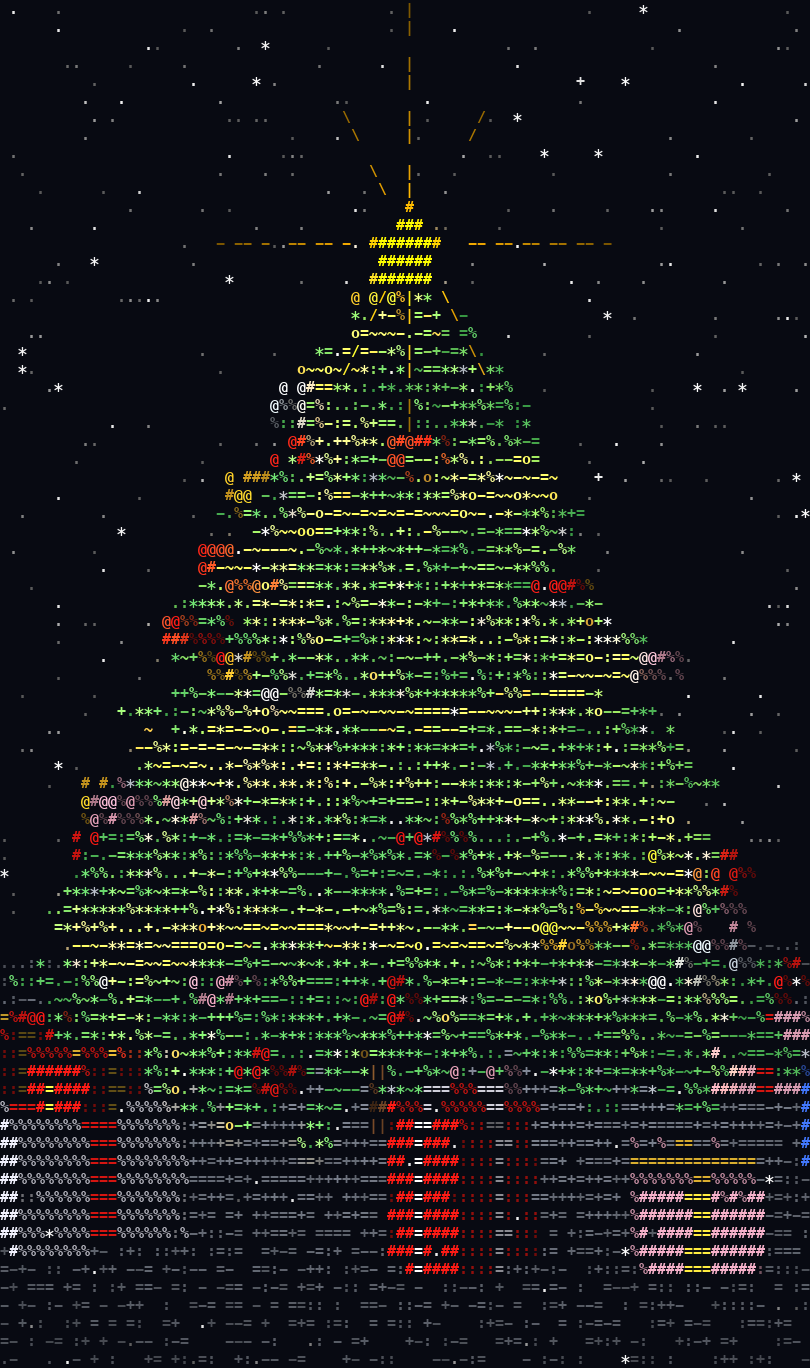
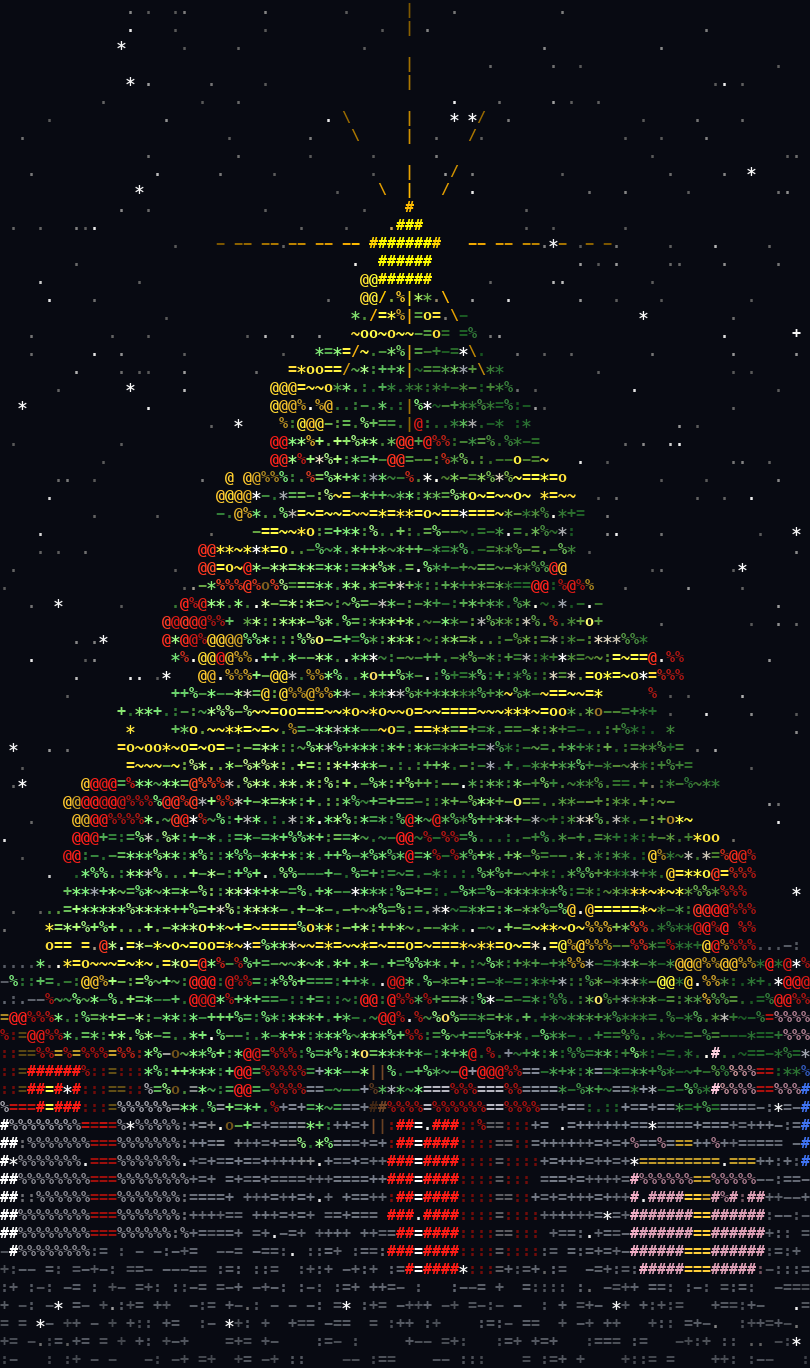
Stronger shading: darker needle base, side light, solid red/gold ornament blobs, bright garland in front of the needles, less bloom haze

diff --git a/tree.py b/tree.py
@@ -52,17 +52,17 @@ add(np.stack([0.085 * np.cos(a), hh, 0.085 * np.sin(a)], -1), np.stack([np.cos(a
 # ---------------------------------------------------------------- tinsel garland: drooping gold spiral in swags (glows)
 n = 2600; u = np.linspace(0, 1, n); turns = 3.6
 hg = 0.03 + 0.90 * u; ag = TAU * turns * u + 0.9
-swag = 0.06 * np.abs(np.sin(ag * 2.5)); rg = radius(hg) * 1.03
+swag = 0.06 * np.abs(np.sin(ag * 2.5)); rg = radius(hg) * 1.12
 p = np.stack([rg * np.cos(ag), YB + (YT - YB) * hg - swag, rg * np.sin(ag)], -1) + rng.normal(0, 0.008, (n, 3))
 g0 = sum(len(x) for x in P)
-add(p, 0, [0.95, 0.72, 0.28], 0.65 + 0.3 * rng.random(n), 3 + 3.5 * u, rng.choice(list("~=-o"), n, p=[.35, .3, .25, .1]))
+add(p, 0, [1.0, 0.82, 0.22], 1.0, 3 + 3.5 * u, rng.choice(list("~=o*"), n, p=[.30, .35, .15, .20]))
 g1 = sum(len(x) for x in P)
 
 # ---------------------------------------------------------------- ornaments: small shaded balls on branch tips
-PALETTE = [[1.0, 0.10, 0.08], [1.0, 0.10, 0.08], [1.0, 0.10, 0.08], [1.0, 0.75, 0.15], [1.0, 0.70, 0.80], [0.90, 0.95, 1.0]]
+PALETTE = [[1.0, 0.12, 0.10], [1.0, 0.12, 0.10], [1.0, 0.12, 0.10], [1.0, 0.78, 0.18], [1.0, 0.12, 0.10], [1.0, 0.78, 0.18]]
 for i, tp in enumerate(tips[:60]):
-    v = rng.normal(size=(20, 3)); v /= np.linalg.norm(v, axis=1, keepdims=True)
-    add(tp * [1.08, 1, 1.08] + [0, -0.05, 0] + v * [0.07, 0.04, 0.07], v, PALETTE[i % len(PALETTE)], 1.0, 6 + 0.08 * i, "@" * 20, ORNAMENT)
+    v = rng.normal(size=(40, 3)); v /= np.linalg.norm(v, axis=1, keepdims=True)
+    add(tp * [1.10, 1, 1.10] + [0, -0.05, 0] + v * [0.065, 0.05, 0.065], v, PALETTE[i % len(PALETTE)], 1.0, 6 + 0.08 * i, "@" * 40, ORNAMENT)
 
 # ---------------------------------------------------------------- lights: small warm dots that switch on one by one
 NL = 170
@@ -108,8 +108,8 @@ add(np.stack([gx, np.full(len(gx), Y0 - 0.02), gz], -1), 0, [0.78, 0.82, 0.90], 
 
 P = np.concatenate(P); N = np.concatenate(N); C = np.concatenate(C); AO = np.concatenate(AO)
 BORN = np.concatenate(BORN); CH = np.concatenate(CH); KIND = np.concatenate(KIND)
-LIGHT = np.array([-0.55, 0.45, -0.70]); LIGHT /= np.linalg.norm(LIGHT)
-NEEDLE_DARK, NEEDLE_LIGHT = np.array([0.12, 0.46, 0.18]), np.array([0.45, 0.90, 0.46])
+LIGHT = np.array([-0.75, 0.35, -0.55]); LIGHT /= np.linalg.norm(LIGHT)
+NEEDLE_DARK, NEEDLE_LIGHT = np.array([0.07, 0.30, 0.11]), np.array([0.50, 0.95, 0.50])
 GLYPH_LEVEL = {"%": 1.0, "*": 0.85, "+": 0.75, "=": 0.6, "~": 0.58, "-": 0.5, ":": 0.45, ".": 0.4}   # glyph decides brightness
 LEVEL = np.array([GLYPH_LEVEL.get(c, 0.5) for c in CH])
 
@@ -150,11 +150,11 @@ def frame(t, ang, W, H):
 
     # needles: the glyph sets the tone (% * + bright, = - : . dark), lighting shifts it a little
     q = np.clip((bright - B_LO) / (B_HI - B_LO), 0, 1)
-    m = kind == NEEDLE; lv = np.clip(LEVEL[vis][m] * (0.75 + 0.5 * q[m]), 0, 1)[:, None]
-    col[m] = NEEDLE_DARK + (NEEDLE_LIGHT - NEEDLE_DARK) * lv ** 1.3
+    m = kind == NEEDLE; lv = np.clip(LEVEL[vis][m] * (0.55 + 0.7 * q[m]), 0, 1)[:, None]
+    col[m] = NEEDLE_DARK + (NEEDLE_LIGHT - NEEDLE_DARK) * lv ** 2.2
     # ornaments: bright @ centre, dark % rim
     m = kind == ORNAMENT
-    ch[m] = np.where(ndl[m] > 0.6, "@", np.where(ndl[m] > 0.3, "#", "%")); col[m] *= (0.4 + 0.75 * ndl[m])[:, None]
+    ch[m] = np.where(ndl[m] > 0.25, "@", "%"); col[m] *= (0.7 + 0.4 * ndl[m])[:, None]
     # presents: face shading picks the glyph
     m = kind == PRESENT
     ch[m] = np.where(ndl[m] > 0.55, "#", np.where(ndl[m] > 0.2, "%", ":")); col[m] *= (0.45 + 0.7 * ndl[m])[:, None]
@@ -172,8 +172,8 @@ def frame(t, ang, W, H):
     grid = np.full((H, W), " ", dtype="<U1"); rgb = np.zeros((H, W, 3))
     grid[gy, gx] = ch[ok][order]; rgb[gy, gx] = col[ok][order]
     emis = np.zeros((H, W, 3))                                   # emissive layer for bloom
-    lm = lmask[ok][order]; emis[gy[lm], gx[lm]] = [1.0, 0.80, 0.30]
-    gm = ((vi >= g0) & (vi < g1))[ok][order]; emis[gy[gm], gx[gm]] += [0.4, 0.3, 0.1]
+    lm = lmask[ok][order]; emis[gy[lm], gx[lm]] = [0.5, 0.40, 0.15]
+    gm = ((vi >= g0) & (vi < g1))[ok][order]; emis[gy[gm], gx[gm]] += [0.12, 0.09, 0.02]
 
     # background stars (twinkle), only on empty cells
     for i, (bx, by, b) in enumerate(STARS):
